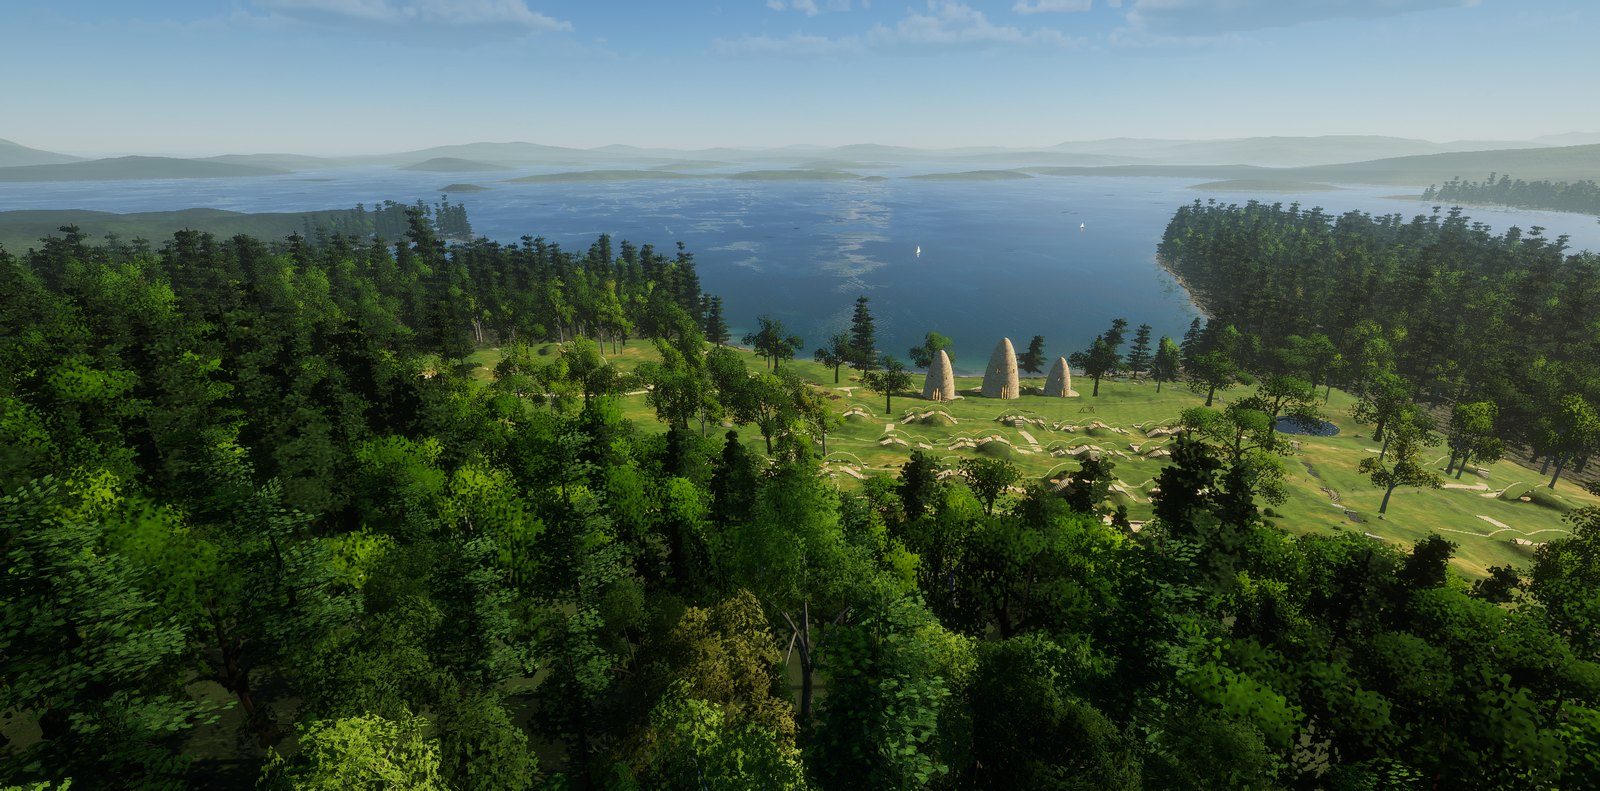
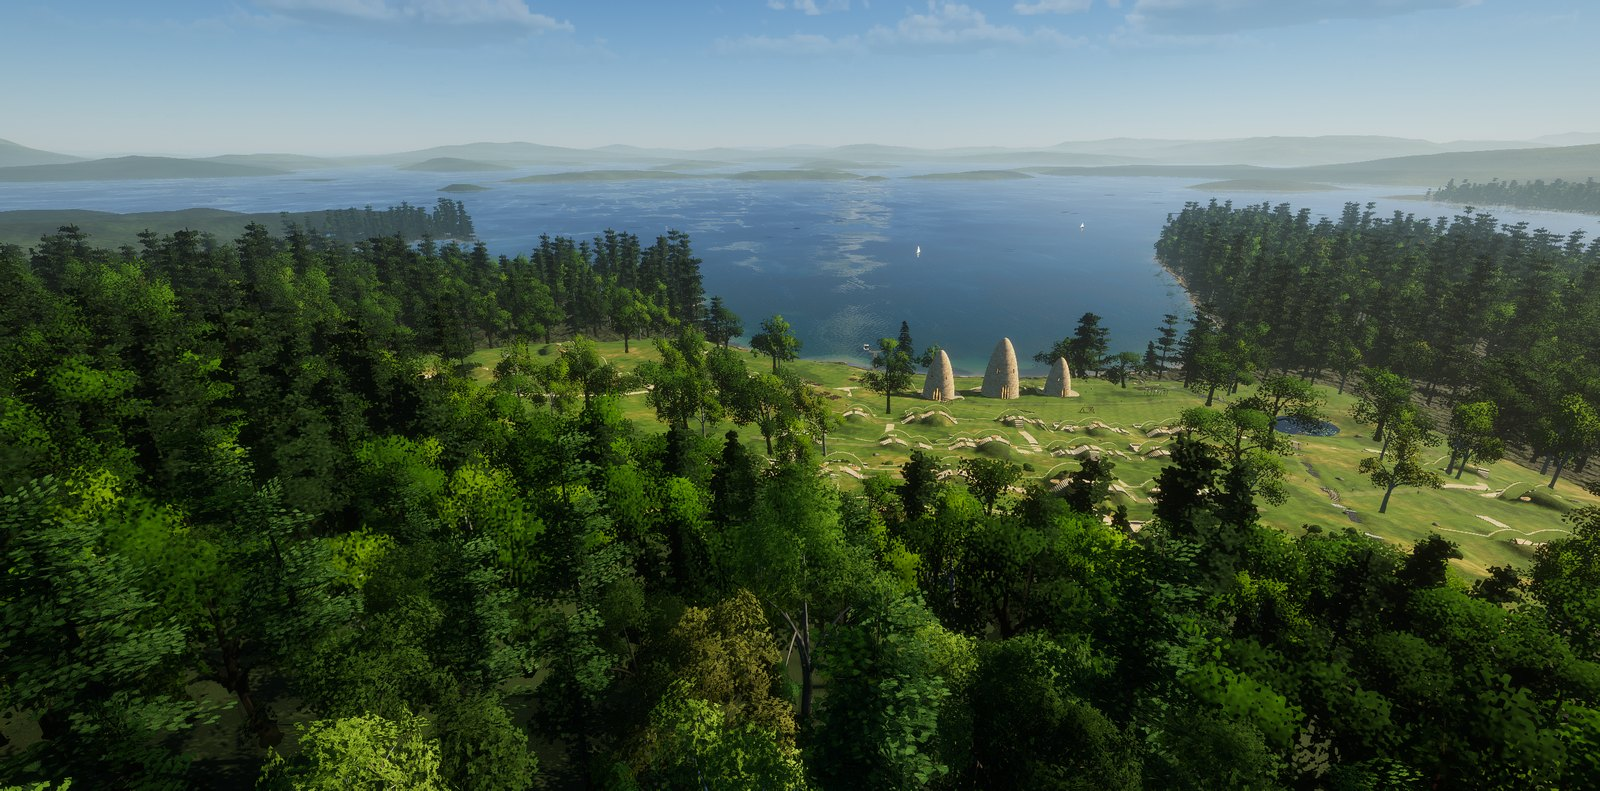
Restart the temporal upscaler's history on a camera cut
After a jump (a debug view, a respawn, the first frame from the spawn camera)
FSR2-style locks on thin dark features of the old view (twigs, needles) were
reprojected into the new one and kept: a haze of dark specks in the sky and
dark ghost leaves, most after an aerial view. A move of more than 6 m or a turn
of more than ~25 degrees in one frame now restarts the history, as a resize
does. Screenshots and key art re-rendered without the specks.

diff --git a/src/post/TemporalUpscale.js b/src/post/TemporalUpscale.js
@@ -604,7 +604,25 @@ DEBUG_OUTPUT
 
 		}
 
-		// after a restart (resize, another AA mode) the history is ignored for a frame (FSR2 reset)
+		// a camera cut (teleport, a debug view, a respawn: > 6 m or > ~25 degrees in one frame) restarts the
+		// history too; otherwise locked thin features of the old view (twigs, wires) could survive in the
+		// new one as specks wherever their reprojection lands
+		const cp = F.cameraPos.value, pp = F.prevCameraPos.value;
+		// view directions now and before: the screen centre unprojected (NDC depth 0.5) from each camera
+		const dir = ( e, o ) => {
+
+			const w = e[ 11 ] * 0.5 + e[ 15 ];
+			const x = ( e[ 8 ] * 0.5 + e[ 12 ] ) / w - o.x, y = ( e[ 9 ] * 0.5 + e[ 13 ] ) / w - o.y, z = ( e[ 10 ] * 0.5 + e[ 14 ] ) / w - o.z;
+			const l = Math.hypot( x, y, z ) || 1;
+			return [ x / l, y / l, z / l ];
+
+		};
+
+		const a = dir( F.invViewProj.value.elements, cp ), b = dir( U.prevInvViewProj.value.elements, pp );
+		const cosT = a[ 0 ] * b[ 0 ] + a[ 1 ] * b[ 1 ] + a[ 2 ] * b[ 2 ];
+		if ( cp.distanceTo( pp ) > 6 || cosT < 0.9 ) this._needsRestart = true;
+
+		// after a restart (resize, another AA mode, a cut) the history is ignored for a frame (FSR2 reset)
 		U.reset.value = this._needsRestart ? 1 : 0;
 		this._needsRestart = false;
 

diff --git a/docs/DECISIONS.md b/docs/DECISIONS.md
@@ -114,12 +114,6 @@ Each is easy to reverse; the file or setting is named.
 - Songbirds still sing from Tidewater's samples (generic woodland birds; no New England species).
 - The sound bed is Tidewater's (surf is near silent at the lake's wave height; the birds are generic).
 
-## Known issues
-
-- Reference shots taken in one batch can show a haze of dark specks in the sky in a view that follows another
-  (most after an aerial view); single views are clean, and the running game has not shown it. Cause not yet
-  found (not the wildlife, haze or spray). The README screenshots are shot one batch per aerial view.
-
 ## Performance
 
 On this Mac (headless Chrome), 2560 x 1267: about 18-22 ms of GPU time per frame across the benchmark views
